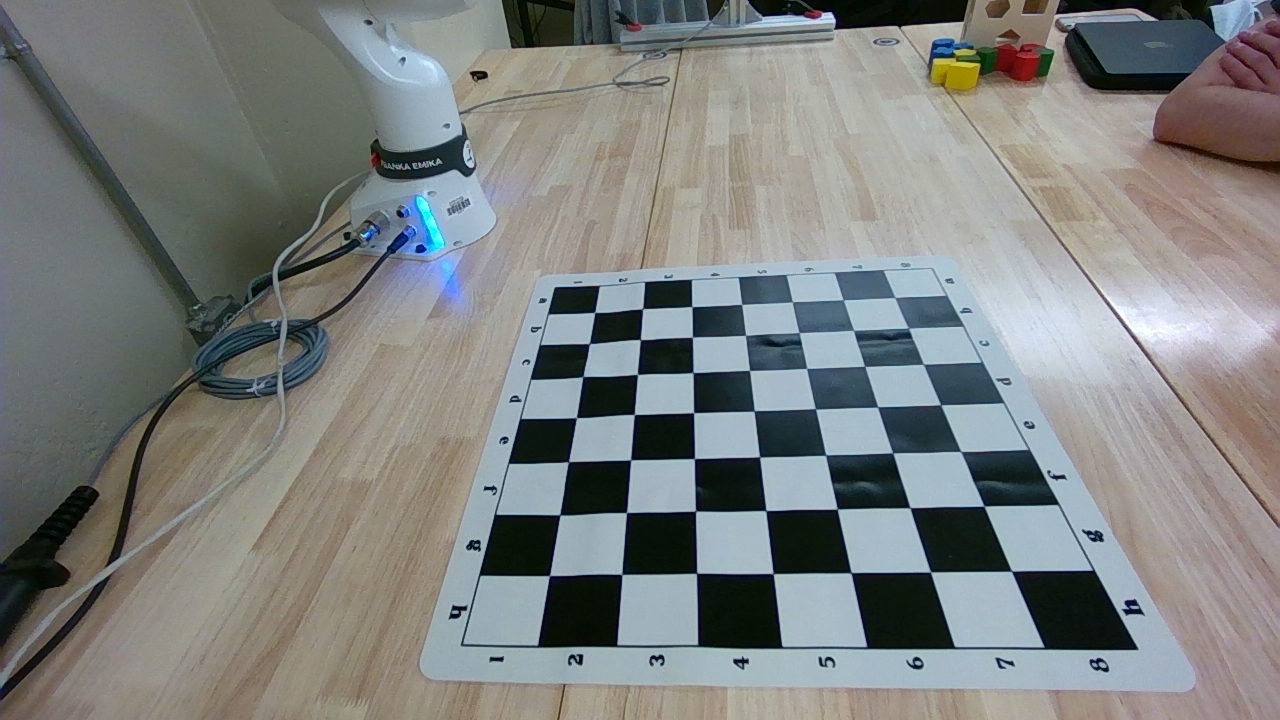
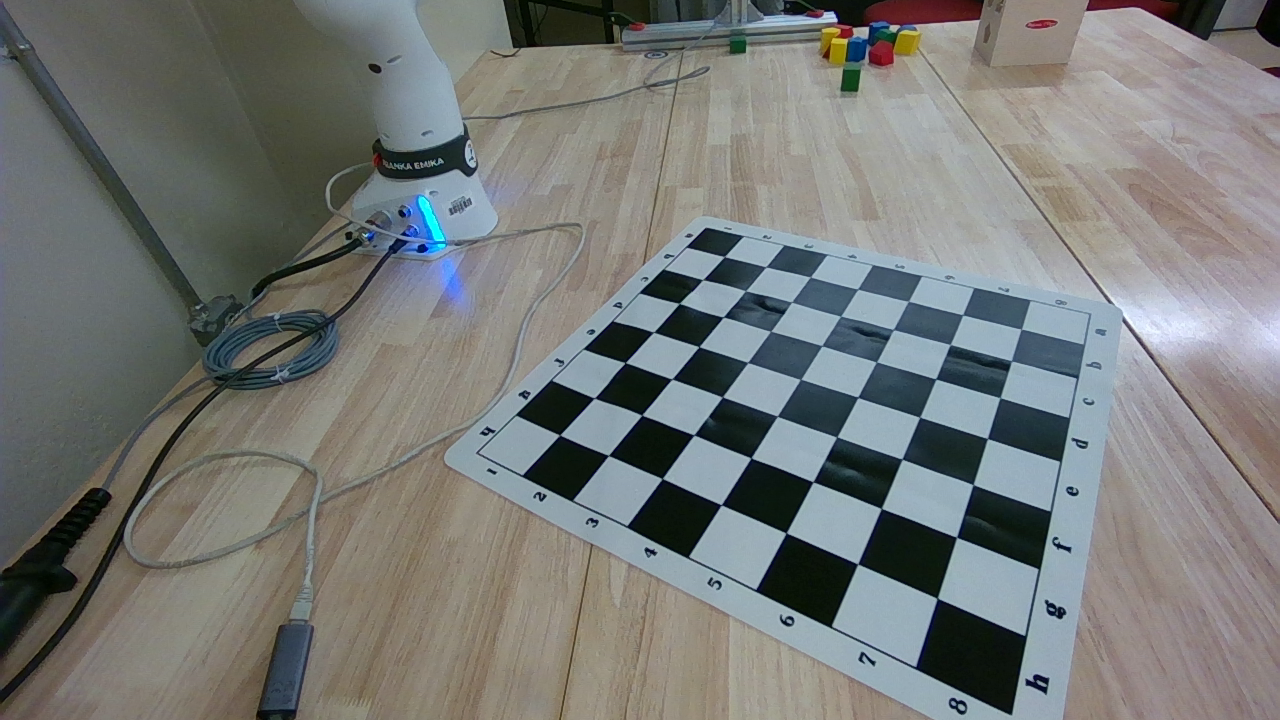
new and more organized calibration images

diff --git a/camera_calibration/calibration.py b/camera_calibration/calibration.py
@@ -20,7 +20,7 @@ for i in range(Ch_Dim[0]):
 obj_points_3D = []  # 3d point in real world space
 img_points_2D = []  # 2d points in image plane.
 
-camera = 'right'
+camera = 'left'
 
 import glob
 image_files = glob.glob(rf'camera_calibration\calibration_images\{camera}\*.png')
@@ -56,8 +56,8 @@ for i in range(len(obj_points_3D)):
     mean_error += error
 print("total error: {}".format(mean_error/len(obj_points_3D)))
 
-R, _ = cv2.Rodrigues(R_vecs[8])
-t = T_vecs[8].reshape(3, 1)
+R, _ = cv2.Rodrigues(R_vecs[-1])
+t = T_vecs[-1].reshape(3, 1)
 
 Rt = np.hstack((R, t))
 
